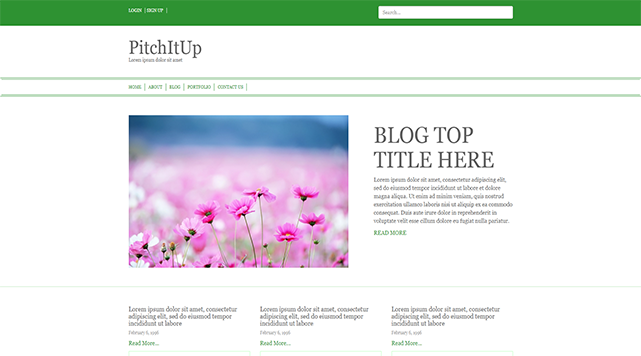
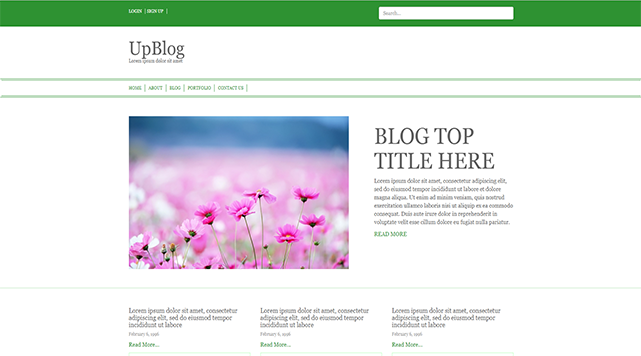
Changing the image and change the project.html

diff --git a/project.html b/project.html
@@ -97,14 +97,14 @@
 							</div>
 							<div class="col-sm-4">
 								<div class="inner-box">
-									<h4>PitchItUp</h4>
+									<h4>UpBlog</h4>
 									<div class="inner-content">
 										<div class="project-img">
 											<img src="img/p6.png">
 										</div>
-										<p>Pitchitup is a capstone project, I created the homepage design and make the page attractive to users. </p>
+										<p>UpBlog is a capstone project, I created the homepage design and make the page attractive to users. </p>
 										<div class="button">
-											<a class="btn" href="https://github.com/angellhove/PitchItUp" target="_blank">View Page</a>
+											<a class="btn" href="https://github.com/angellhove/UpBlog" target="_blank">View Page</a>
 										</div>
 									</div>
 								</div>
